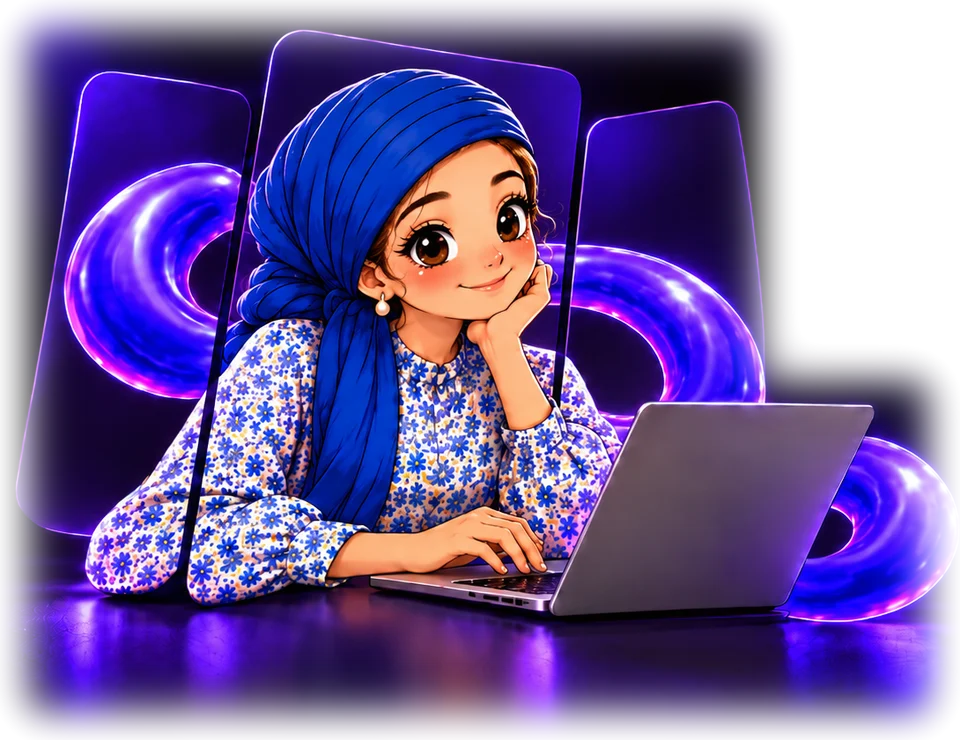
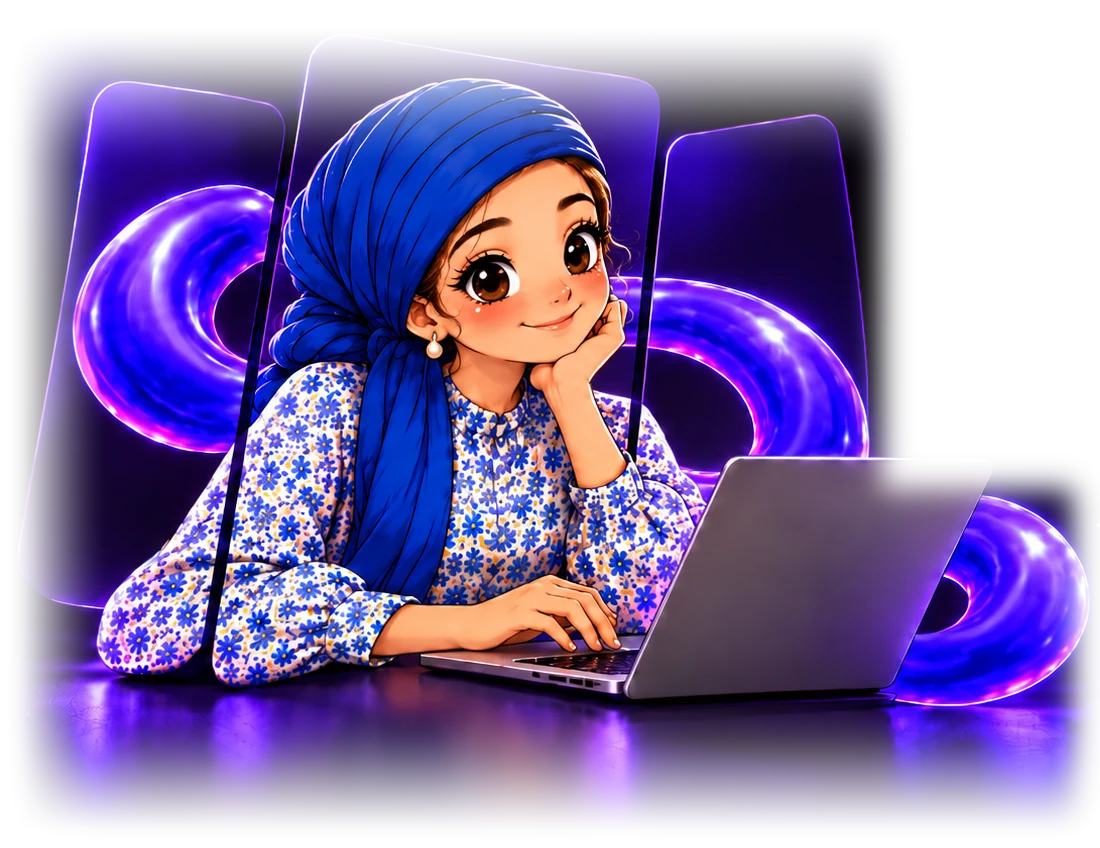
About flip: use equal-size panel artwork, exact panel polygons; fix mobile button positioning
Claude-Session: https://claude.ai/code/session_01NTP9niN9fkNMbJSChYRcYE

diff --git a/assets/css/style.css b/assets/css/style.css
@@ -1293,9 +1293,9 @@ html.deck-locked { overscroll-behavior: none; }
 
 /* about v2: the glass panels themselves flip (outlines clipped from the artwork) */
 .aflip__card { position: absolute; inset: 0; flex: none; margin: 0; --ox: 16%; transform-origin: var(--ox) 50%; }
-.aflip__card:nth-of-type(1) { --ox: 16%; z-index: 1; }
-.aflip__card:nth-of-type(2) { --ox: 42%; z-index: 3; }
-.aflip__card:nth-of-type(3) { --ox: 70%; z-index: 2; }
+.aflip__card:nth-of-type(1) { --ox: 14%; z-index: 1; }
+.aflip__card:nth-of-type(2) { --ox: 39.3%; z-index: 3; }
+.aflip__card:nth-of-type(3) { --ox: 67.5%; z-index: 2; }
 .aflip__f { background-size: 100% 100% !important; background-position: 0 0 !important; transform-origin: var(--ox) 50%; }
 .aflip__f--b { transform: rotateY(180deg); }
 .aflip__base { position: absolute; inset: 0; background-size: 100% 100%; background-repeat: no-repeat; transition: opacity 1.4s ease; z-index: 0; }
@@ -1310,7 +1310,7 @@ html.deck-locked { overscroll-behavior: none; }
 @media (min-width: 1024px) { .nav__logo { width: calc(132 * var(--a)); } .footer__logo { width: calc(236 * var(--c)); } }
 @media (max-width: 1023.98px) { .nav__logo { width: calc(197 * var(--n)); } }
 /* all buttons: text truly centred, arrow pinned to the end */
-.btn, .btn--primary, .about__btn, .process__btn, .form .btn.form__send, .hero__ctas .btn, .legal__back { position: relative; justify-content: center !important; padding-inline: 48px !important; }
+.btn, .btn--primary, .about__btn, .process__btn, .form .btn.form__send, .hero__ctas .btn, .legal__back { justify-content: center !important; padding-inline: 48px !important; }
 .btn .btn__arrow { position: absolute !important; inset-inline-end: 9px; top: 50%; margin: 0 !important; translate: 0 -50%; }
 .btn .btn__label { text-align: center; }
 .process__btn { width: 236px !important; }
@@ -1326,3 +1326,6 @@ html.deck-locked { overscroll-behavior: none; }
 @media (min-width: 1024px) {
   .talk .contact__tube img { -webkit-mask-image: linear-gradient(90deg, transparent 0, #000 22%, #000 100%), linear-gradient(180deg, transparent 0, #000 22%, #000 78%, transparent 100%); mask-image: linear-gradient(90deg, transparent 0, #000 22%, #000 100%), linear-gradient(180deg, transparent 0, #000 22%, #000 78%, transparent 100%); -webkit-mask-composite: source-in; mask-composite: intersect; }
 }
+/* about art: keep the torus tail clear of the text column */
+.aflip { transform: scale(.87); transform-origin: 0 50%; }
+@media (max-width: 1023.98px) { .about__btn { left: 50% !important; right: auto !important; translate: -50% 0; } }

diff --git a/assets/js/main.js b/assets/js/main.js
@@ -400,13 +400,13 @@
     const cards = $$(".aflip__card", box), baseA = $(".aflip__base--a", box), baseB = $(".aflip__base--b", box);
     const imgs = [1, 2, 3].map(i => `assets/img/about-flip-${i}.webp`);
     imgs.forEach(u => { const im = new Image(); im.src = u; });
-    /* panel outlines per picture (x, y in the 960×740 artwork): [left panel, middle panel, right panel] */
-    const POLY = [
-      [[[130,86],[247,98],[214,644],[80,644]], [[268,26],[550,60],[564,668],[190,672]], [[570,120],[670,100],[765,655],[755,688],[585,684]]],
-      [[[88,72],[248,94],[212,520],[30,536],[16,500]], [[278,30],[568,68],[582,110],[556,600],[182,600]], [[588,122],[720,102],[750,160],[765,420],[600,430]]],
-      [[[265,48],[420,54],[430,620],[170,618],[190,520]], [[420,40],[560,50],[582,98],[560,500],[430,500]], [[590,100],[700,88],[722,110],[775,590],[740,625],[610,570]]]
+    /* panel outlines (x, y in the 1100x848 artwork) - the three glass panels sit in the same place in every picture */
+    const PANELS = [
+      [[95,85],[285,106],[292,112],[207,655],[100,612],[18,550]],
+      [[300,60],[318,38],[640,78],[660,110],[612,655],[207,655]],
+      [[666,140],[805,115],[835,128],[872,668],[855,672],[612,655]]
     ];
-    const clip = (i, k) => "polygon(" + POLY[i][k].map(([x, y]) => (x / 9.6).toFixed(2) + "% " + (y / 7.4).toFixed(2) + "%").join(",") + ")";
+    const clip = (i, k) => "polygon(" + PANELS[k].map(([x, y]) => (x / 11).toFixed(2) + "% " + (y / 8.48).toFixed(2) + "%").join(",") + ")";
     const url = i => `url(${imgs[i % imgs.length]})`;
     const st = cards.map((c, k) => ({ c, k, ang: 0, a: $(".aflip__f--a", c), b: $(".aflip__f--b", c), imgA: 0 }));
     const setFace = (f, i, k) => { f.style.backgroundImage = url(i); f.style.clipPath = f.style.webkitClipPath = clip(i, k); };
